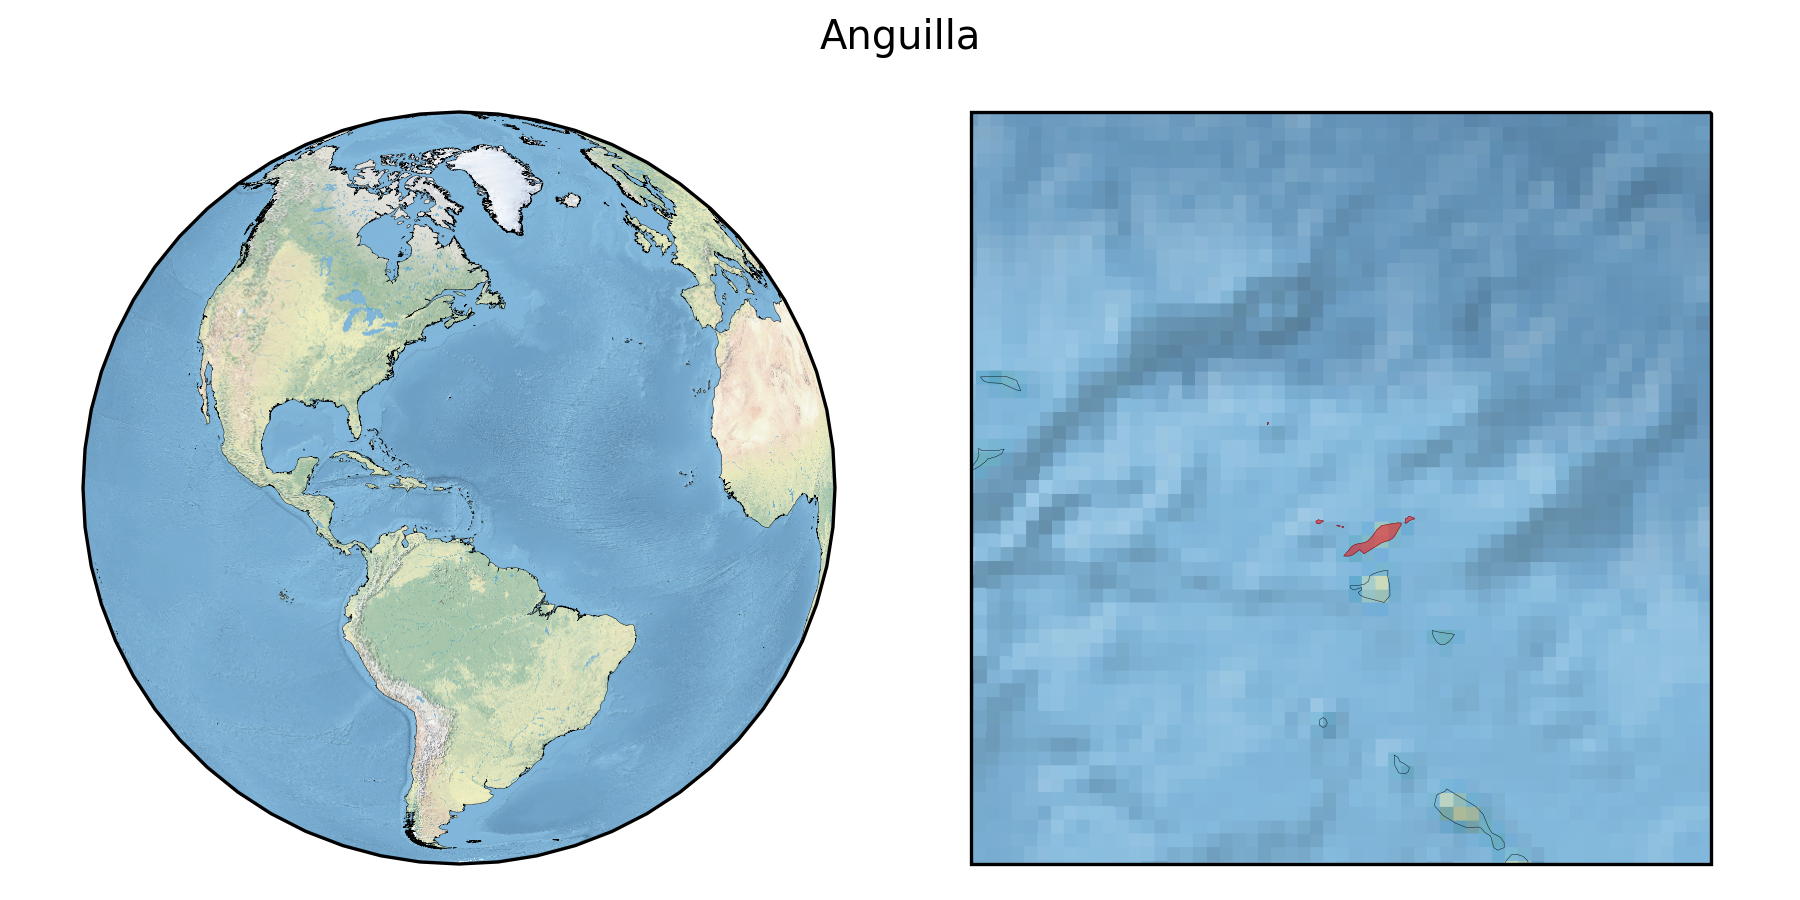
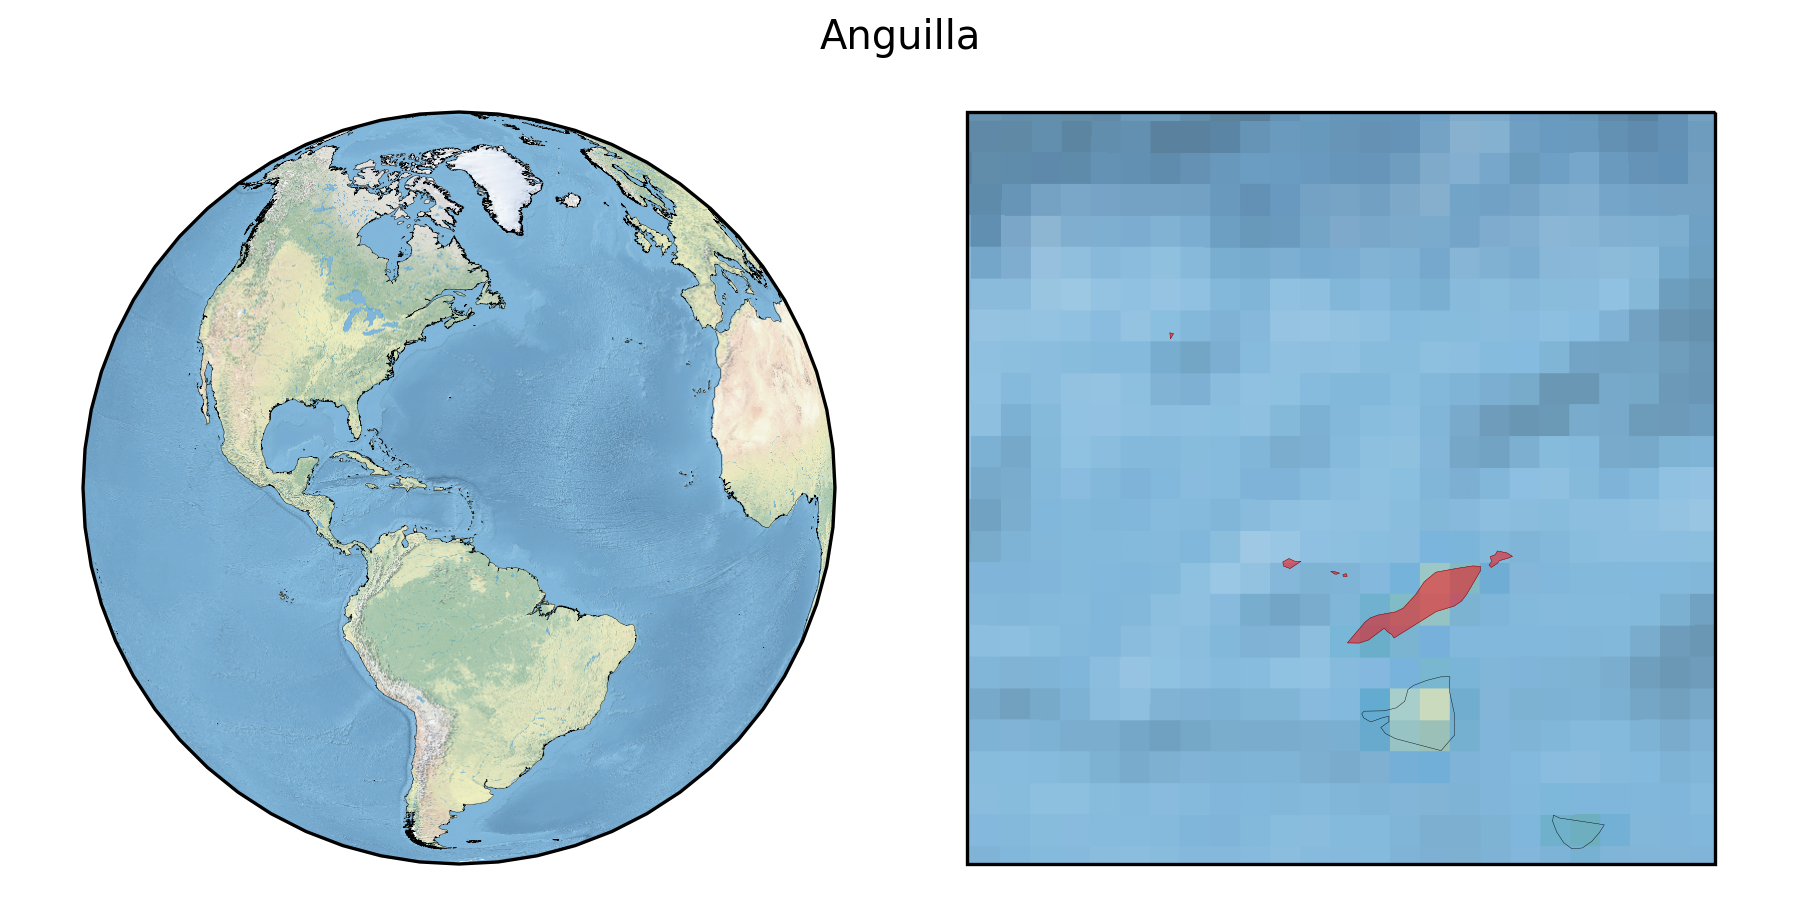
use new helper function

diff --git a/bots/create_map.py b/bots/create_map.py
@@ -93,6 +93,23 @@ def create_map(name, territory, fpath, /):
     if lon_cor.size == 0 or lat_cor.size == 0 or lon_cen.size == 0 or lat_cen.size == 0:
         raise Exception(f"no points were found for \"{name}\"") from None
 
+    # Create short-hands ...
+    pointLon = lon_cen.mean()                                                   # [°]
+    pointLat = lat_cen.mean()                                                   # [°]
+
+    # Find the maximum distance of any corner from the centre ...
+    maxDist = 0.0                                                               # [m]
+    for iCor in range(lat_cor.size):
+        maxDist = max(
+            maxDist,
+            pyguymer3.geo.calc_dist_between_two_locs(
+                pointLon,
+                pointLat,
+                lon_cor[iCor],
+                lat_cor[iCor],
+            )[0],
+        )                                                                       # [m]
+
     # Create plot ...
     fg = matplotlib.pyplot.figure(figsize = (6, 3))
 
@@ -102,8 +119,8 @@ def create_map(name, territory, fpath, /):
         2,
         1,
         projection = cartopy.crs.Orthographic(
-            central_longitude = lon_cen.mean(),
-             central_latitude = lat_cen.mean(),
+            central_longitude = pointLon,
+             central_latitude = pointLat,
         ),
     )
 
@@ -150,25 +167,17 @@ def create_map(name, territory, fpath, /):
             )
 
     # Create axis ...
-    ax2 = fg.add_subplot(
-        1,
-        2,
-        2,
-        projection = cartopy.crs.Orthographic(
-            central_longitude = lon_cen.mean(),
-             central_latitude = lat_cen.mean(),
-        ),
+    ax2 = pyguymer3.geo.add_top_down_axis(
+        fg,
+        pointLon,
+        pointLat,
+        maxDist + 12.0 * 1852.0,
+        nrows = 1,
+        ncols = 2,
+        index = 2,
     )
 
     # Configure axis ...
-    ax2.set_extent(
-        [
-            max(-180.0, lon_cor.min() - 1.0),
-            min( 180.0, lon_cor.max() + 1.0),
-            max( -90.0, lat_cor.min() - 1.0),
-            min(  90.0, lat_cor.max() + 1.0),
-        ]
-    )
     pyguymer3.geo.add_map_background(ax2, resolution = "large8192px")
     ax2.coastlines(resolution = "10m", color = "black", linewidth = 0.1)
 
